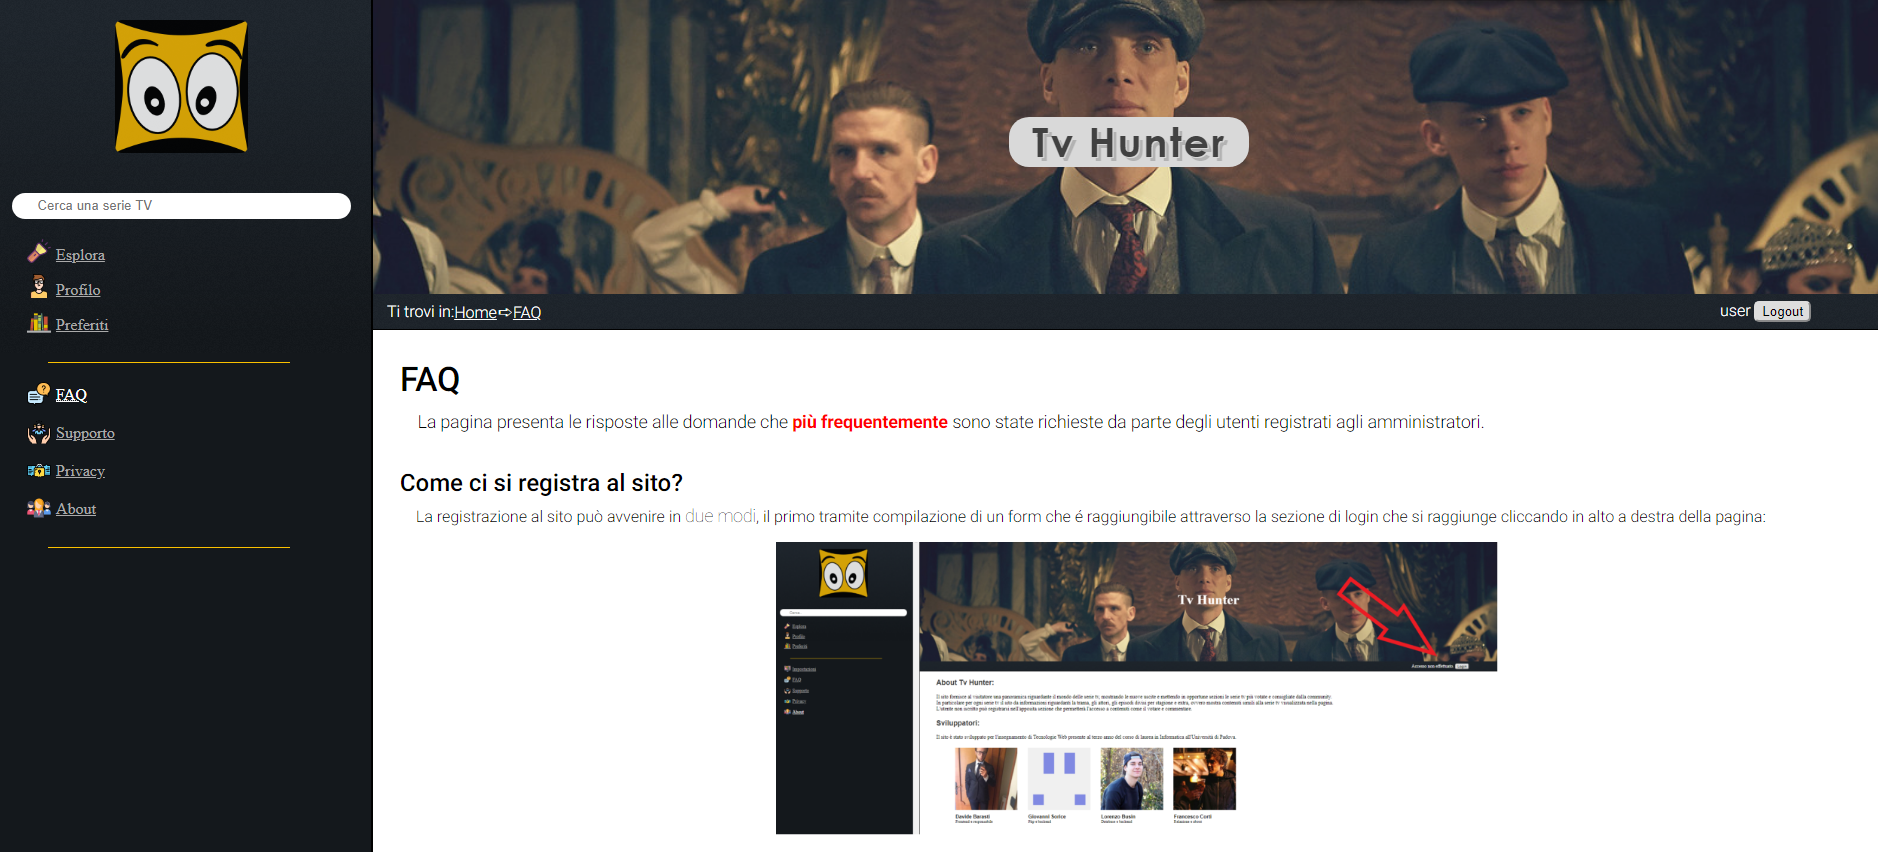
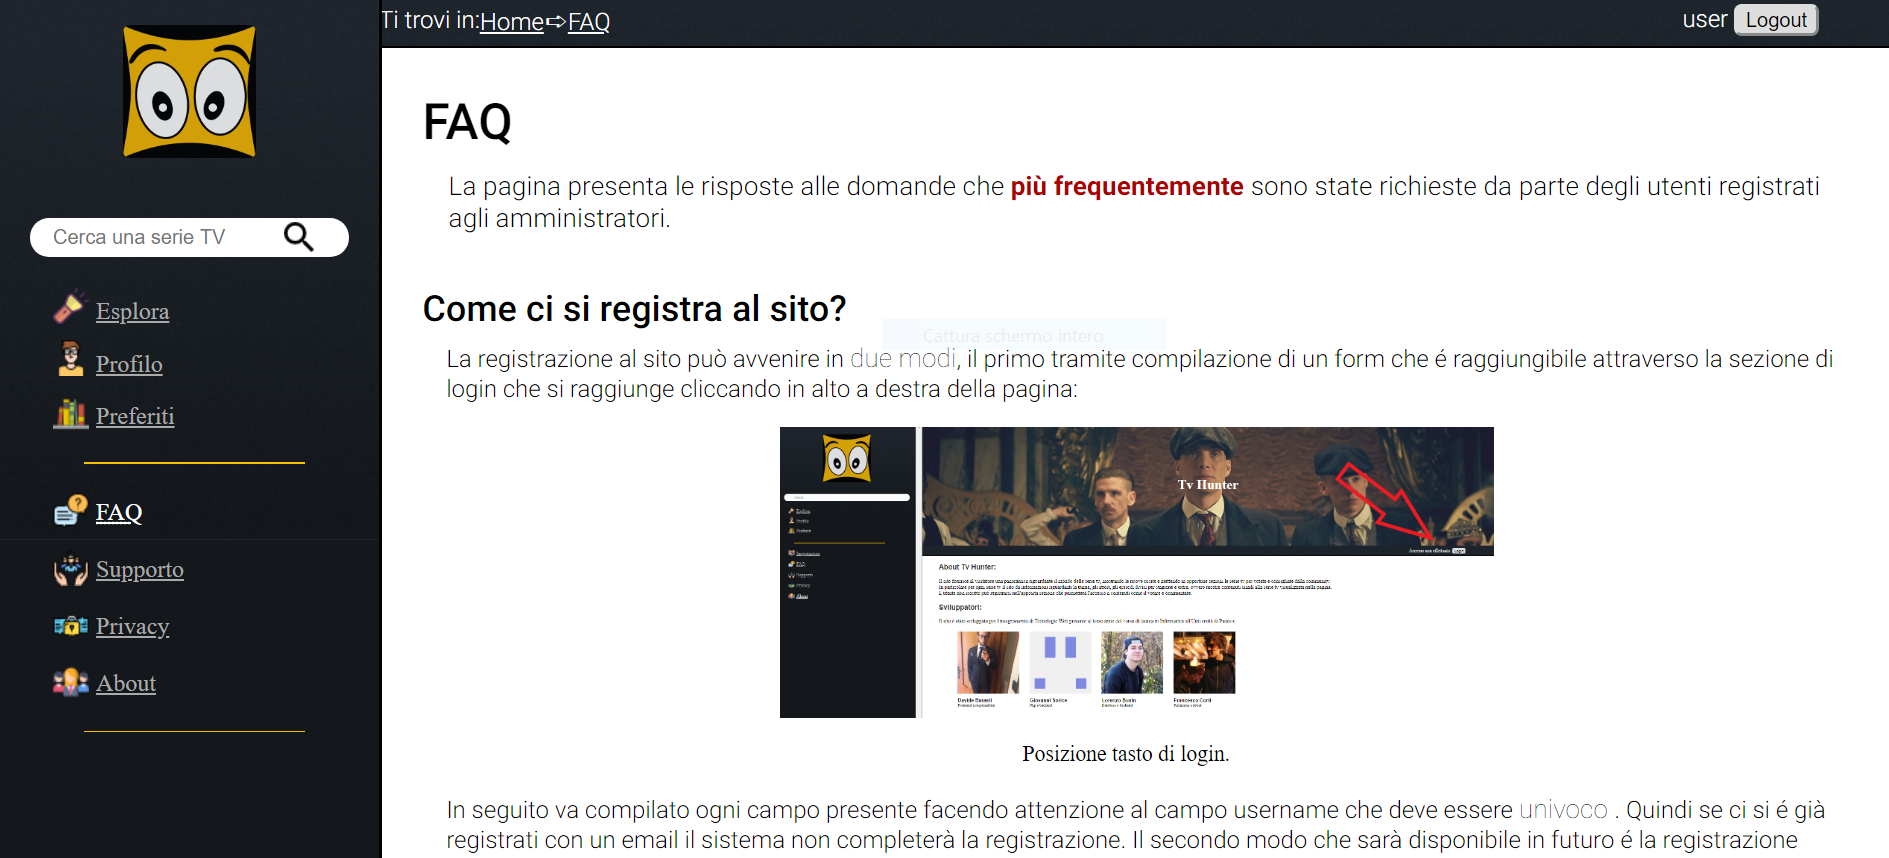
Relazione Finale

diff --git a/Relazione/sez/progettazione.tex b/Relazione/sez/progettazione.tex
@@ -2,19 +2,19 @@
 \section{Progettazione}
 \subsection{Studio dell'utenza finale}
 \subsubsection{Utente generico}
-L'utente generico che in generale visiterà il sito è di profilo informatico medio alto ed è alla ricerca di informazioni riguardanti serie TV.
+L'utente generico che in generale visiterà il sito è di profilo informatico medio alto, il sito infatti rispetta la struttura moderna dei social network, ed è alla ricerca di informazioni riguardanti serie TV.
 L'utente generico non registrato ha a disposizione le seguenti azioni:
 \begin{itemize}
 	\item eseguire il \textit{login} oppure effettuare l'\textit{iscrizione} al sito;
-	\item navigare nelle pagine \textit{homepage, esplora, serie TV, FAQ, supporto, privacy} e \textit{about};
+	\item navigare nelle pagine \textit{homepage, esplora, serie TV, FAQ, supporto, privacy, genere} e \textit{about};
 	\item effettuare la ricerca di serie TV grazie alla casella di ricerca presente nella barra di navigazione.
 \end{itemize}
-Qualora l'utente non registrato tentasse di utilizzare le funzionalità riservate agli utenti registrati, verrà reindirizzato alla pagina di accesso o registrazione.
+Qualora l'utente non registrato tentasse di utilizzare le funzionalità riservate agli utenti registrati, verrà reindirizzato alla pagina di accesso.
 
 L'utente generico registrato ha a disposizione le seguenti azioni:
 \begin{itemize}
 	\item eseguire il \textit{logout};
-	\item navigare nelle pagine \textit{homepage, esplora, serie TV, preferiti, FAQ, supporto, privacy} e \textit{about};
+	\item navigare nelle pagine \textit{homepage, esplora, serie TV, preferiti, FAQ, supporto, privacy,genere} e \textit{about};
 	\item all'interno della pagina dedicata alle singole serie TV, l'utente potrà:
 	\begin{itemize}
 		\item consigliare o meno la serie;
@@ -22,7 +22,7 @@ L'utente generico registrato ha a disposizione le seguenti azioni:
 		\item aggiungere la serie ai preferiti; 
 		\item creare post e partecipare a discussioni;
 		\item segnalare i commenti inappropriati degli altri utenti;
-		\item segnare una serie TV come visualizzato o non visualizzata.
+		\item segnare un episodio di una serie TV come visualizzato o non visualizzato.
 	\end{itemize}
 \end{itemize}
 
@@ -31,7 +31,7 @@ L'utente generico registrato ha a disposizione le seguenti azioni:
 I permessi aggiunti agli utenti amministratori permettono di accedere alla pagina di amministrazione.\\
 All'interno dell'area dedicata all'amministrazione è possibile svolgere le seguenti attività:
 \begin{itemize}
-	\item visualizzare in forma tabellare i commenti segnalati dagli utenti. Sarà possibile decidere di ignorare la segnalazione oppure di eliminare il commento segnalato, inoltre ha la possibilità di non far vedere un commento esclusivamente all'utente che l'ha segnalato;
+	\item visualizzare in forma tabellare i commenti segnalati dagli utenti. Sarà possibile decidere di ignorare la segnalazione oppure di eliminare il commento segnalato.
 	\item visualizzare in forma tabellare i messaggi ricevuti dagli utenti, inviati dall'apposita sezione "Supporto", e decidere di dare una risposta oppure di eliminare i messaggi.
 \end{itemize}
 Qui di seguito è riportata la schermata che si presenta all'utente amministratore:
@@ -63,7 +63,7 @@ Che ci si trovi in modalità mobile, tablet o desktop, si potrà navigare all'in
 	Entrambe le barre sono posizionate in maniera \textit{fissa}. La barra superiore ha una altezza fissata in \textit{em}.\\
 	
 	\item In \textbf{modalità desktop} la barra di navigazione è posta in verticale sul lato sinistro. Questa ha una \textit{larghezza} del 20\% ed è posta in \textit{posizione} fissa.\\
-	Nel menù sono elencate le voci principali (\textit{esplora, profilo, preferiti}) nel primo blocco e le voci secondarie (\textit{FAQ, supporto, privacy, about}) in un secondo blocco.\\
+	Nel menù sono elencate le voci principali (\textit{esplora, profilo, preferiti}) nel primo blocco e le voci secondarie (\textit{FAQ, supporto, privacy e about}) in un secondo blocco che in caso ci si sia autenticati  come amministratori conterrà anche la pagina \textit{amministrazione}.\\
 	Alla sinistra delle voci, grazie al selettore \textit{:before}, sono state inserite delle icone che aiutano ad individuare più rapidamente la voce che si sta cercando.\\
 	Nel menù laterale sulla parte superiore è presente lo spazio per la ricerca delle serie tv.
 \end{itemize}
@@ -89,7 +89,7 @@ Sulla parte sinistra, nelle versioni mobile e tablet viene indicato il percorso 
 ~\\	
 La pagina di about contiene informazioni riguardanti la piattaforma e i membri del gruppo con le relative foto. 
 \begin{figure}[H]
-	\centerline{\includegraphics[scale=0.33]{img/about.png}}
+	\centerline{\includegraphics[scale=0.16]{img/about.png}}
 	\caption{Pagina di About in modalità desktop}
 	\label{fig:addForm} 
 \end{figure}	
@@ -98,7 +98,7 @@ La pagina di about contiene informazioni riguardanti la piattaforma e i membri d
 ~\\	
 La pagina di privacy contiene le linee guida adottate dalla piattaforma per il trattamento dei dati personali degli utenti registrati.
 \begin{figure}[h!]
-	\centerline{\includegraphics[scale=0.23]{img/privacy.png}}
+	\centerline{\includegraphics[scale=0.16]{img/privacy.png}}
 	\caption{Pagina di Privacy in modalità desktop}
 	\label{fig:addForm} 
 \end{figure}
@@ -107,7 +107,7 @@ La pagina di privacy contiene le linee guida adottate dalla piattaforma per il t
 ~\\
 La pagina di faq presenta le domande che più sono state richieste dagli utenti registrati agli amministratori con le relative risposte. Inoltre per ogni domanda è presente, se necessaria, un'immagine che indica il posizionamento delle "\textit{aree}" del sito che possono non essere state trovate.
 \begin{figure}[H]
-	\centerline{\includegraphics[scale= 0.33]{img/faq.png}}
+	\centerline{\includegraphics[scale= 0.16]{img/faq.png}}
 	\caption{Pagina Faq in modalità desktop}
 	
 \end{figure}
@@ -119,7 +119,7 @@ La pagina di faq presenta le domande che più sono state richieste dagli utenti 
 ~\\	
 La pagina di preferiti raccoglie le serie TV che sono state selezionate come preferite dall'utente in modo tale che in futuro non debbano essere ricercate nuovamente. Le serie salvate vengono mostrate in modo ordinato e se non sono presenti serie TV preferite viene visualizzata una pagina vuota. 
 \begin{figure}[H]
-	\centerline{\includegraphics[scale=0.33]{img/preferiti.png}}
+	\centerline{\includegraphics[scale=0.23]{img/preferiti.png}}
 	\caption{Pagina di Preferiti in modalità desktop}
 	\label{fig:addForm}
 \end{figure}	
@@ -129,7 +129,7 @@ La pagina di preferiti raccoglie le serie TV che sono state selezionate come pre
 ~\\	
 La pagina di esplora elenca per genere le serie TV che il sito ha nel database. Ogni genere ha il 100\% di spazio in larghezza a disposizione ma qualora questo spazio non dovesse bastare a mostrare tutte le serie appartenenti al genere, l'utente potrà comunque visualizzarle tutte in una pagina dedicata, raggiungibile tramite il link \textit{mostra tutto} presente sul lato destro dell'elenco delle serie.
 \begin{figure}[H]
-	\centerline{\includegraphics[scale=0.33]{img/esplora.png}}
+	\centerline{\includegraphics[scale=0.23]{img/esplora.png}}
 	\caption{Pagina esplora in modalità desktop}
 	\label{fig:addForm}
 \end{figure}	
@@ -138,7 +138,7 @@ La pagina di esplora elenca per genere le serie TV che il sito ha nel database. 
 ~\\
 La pagina di profilo contiene: nome, cognome, data di nascita, username e la Email dell'utente registrato. In caso di mancata registrazione il sistema mostrerà una schermata dove darà, tramite un link, la possibilità di registrarsi o di autenticarsi come utente registrato nell'apposita pagina di registrazione. 
 \begin{figure}[H]
-	\centerline{\includegraphics[scale= 0.33]{img/profilo.png}}
+	\centerline{\includegraphics[scale= 0.15]{img/profilo.png}}
 	\caption{Pagina Profilo in modalità desktop}
 \end{figure}
 
@@ -150,7 +150,7 @@ La pagina di profilo contiene: nome, cognome, data di nascita, username e la Ema
 La pagina di serie contiene le informazioni riguardanti una serie TV specifica, il titolo delle serie TV è posto in cima alla pagina e viene caricata nell'\textit{head} l'immagine della serie. È poi presente una sezione \textit{Post} che permette di lasciare un commento che, se inviato, sarà reso visibile agli utenti o visitatori del sito. A lato della pagina è possibile aggiungere la serie ai \textit{preferiti}, viene data la possibilità di selezionare un voto da uno a cinque e di lasciare un \textit{feedback} positivo o negativo tramite la selezione del pollice. Per ogni episodio all'utente registrato è data anche la possibilità  di segnare se è stato visto o meno. 
 
 \begin{figure}[H]
-	\centerline{\includegraphics[scale= 0.33]{img/serie.png}}
+	\centerline{\includegraphics[scale= 0.15]{img/serie.png}}
 	\caption{Pagina serie in modalità desktop}
 	
 \end{figure}

diff --git a/Relazione/sez/realizzazione.tex b/Relazione/sez/realizzazione.tex
@@ -27,13 +27,22 @@ PHP è stato utilizzato per la creazione dinamica di tutte le pagine della piatt
 JavaScript è stato utilizzato per l'aggiornamento in tempo reale della pagina web, tramite Ajax. Questo ha permesso di avere aggiornamenti della pagina senza dover effettuare il ricaricamento. Ajax è stato utilizzato nella parte di ricerca della serie, \textit{searchbar}, e nella pagina specifica delle serie dove vengono caricate, se richieste dall'utente, le varie stagioni. Qualora JavaScript non fosse disponibile sono state implementate delle funzioni della parti di PHP che permettono comunque il funzionamento del sito.
 
 \subsubsection{Struttura}
-Tutta la parte strutturale è stata mantenuta nei file presenti all'interno della cartella \textit{public}. I files .html sono stati posizionati nella cartella \textit{views}, quelli .php invece dentro la cartella \textit{php}. La parte di presentazione invece è stata posta all'interno della cartella \textit{css}, le immagini all'interno della cartella \textit{img}, mentre tutti gli altri file di utilità sono stati posti in cartelle più specifiche. La struttura scelta dal gruppo è quella gerarchica, in quanto tutte le informazioni sono disponibili a partire da una barra di navigazione sempre visibile.
+Tutta la parte strutturale è stata mantenuta nei file presenti all'interno della cartella \textit{public}. I files .php invece dentro la cartella \textit{php}. La parte di presentazione invece è stata posta all'interno della cartella \textit{css}, le immagini all'interno della cartella \textit{img}, mentre tutti gli altri file di utilità sono stati posti in cartelle più specifiche. La struttura scelta dal gruppo è quella gerarchica, in quanto tutte le informazioni sono disponibili a partire da una barra di navigazione sempre visibile.
+
+\subsubsection{Database}
+
+Il sito ha un database contenente  sedici tabelle che vengono utilizzate per immagazzinare  tutte le informazioni contenute nel sito e le possibili interazioni da parte degli utenti registrati, come il commentare, votare una serie ecc. Nell'immagine che segue è illustrata la  sua struttura e le connessioni che sono presenti tra le tabelle:
+
+\begin{figure}[H]
+	\centerline{\includegraphics[scale= 0.40]{img/database.jpg}}
+	\caption{Database di Tv Hunter}
+\end{figure}
 
 \subsection{Presentazione}
 Si è cercata, e ottenuta, una completa separazione tra parte presentazionale e parte strutturale. Non sono presenti \textit{tag} di stile all’interno dell'HTML che viene generato in PHP e nemmeno nei file delle pagine in formato .txt che vengono tradotti in codice HTML. 
 Tutta la presentazione viene gestita attraverso fogli di stile diversi che si adattano, come descritto nel paragrafo 3.1, al tipo di dispositivo usato.
 
 \subsection{Comportamento}
-Sia per l'utente generico che per l'amministratore si è deciso di utlizzare sia elementi di JavaScript che di PHP, questa scelta è dovuta al fatto che il sito cerca il più possibile di coinvolgere l'utente a commentare e valutare i contenuti, ispirandosi quindi al modello dei social network. E' stata inoltre predisposta la validazione degli input da parte dell’utente, con una gestione degli errori per la registrazione nel sistema. Si è scelto di adottare un sistema anti-SQL Injection per la compilazione dei form in MySQL in modo da prevenire l'accesso ai dati sensibili. Inoltre sono stati effettuati dei controlli sull'input attraverso la variabile \textit{pattern} presente in HTML nel client-side e per essere certi della validità dell'input sono stati effettuati dei controlli anche dal lato server tramite PHP.
+Sia per l'utente generico che per l'amministratore si è deciso di utlizzare sia elementi di JavaScript che di PHP, questa scelta è dovuta al fatto che il sito cerca il più possibile di coinvolgere l'utente a commentare e valutare i contenuti, ispirandosi quindi al modello dei social network. È stata inoltre predisposta la validazione degli input da parte dell’utente, con una gestione degli errori per la registrazione nel sistema. Si è scelto di adottare un sistema anti-SQL Injection per la compilazione dei form presenti nel sito in modo da prevenire l'accesso ai dati sensibili. Inoltre sono stati effettuati dei controlli sull'input attraverso la variabile \textit{pattern} presente in HTML nel client-side e per essere certi della validità dell'input sono stati effettuati dei controlli anche dal lato server tramite PHP.
 
 

diff --git a/Relazione/sez/suddivisione.tex b/Relazione/sez/suddivisione.tex
@@ -4,7 +4,7 @@
 Davide si è occupato di definire il template HTML per le pagine del sito, della stesura delle componenti principali dei fogli di stile e della verifica della responsiveness del sito.
 
 \subsection{Giovanni Sorice}
-Giovanni si è occupato della stesura del codice PHP e Javascript, ha reso le pagina dinamiche e ha trattato la gestione dei form all'interno del sito.
+Giovanni si è occupato della stesura del codice PHP e Javascript, ha reso le pagina dinamiche e ha trattato la gestione dei form all'interno del sito e si è occupato inoltre dell'interazione tra l'utente e il sito.
 
 \subsection{Lorenzo Busin}
 Lorenzo si è occupato di creare il database del sito e di testare l'accessibilità. Si è inoltre occupato di generare la pagine dinamicamente tramite PHP e si è occupato di implementare meccanismi di protezione per i dati sensibili.
